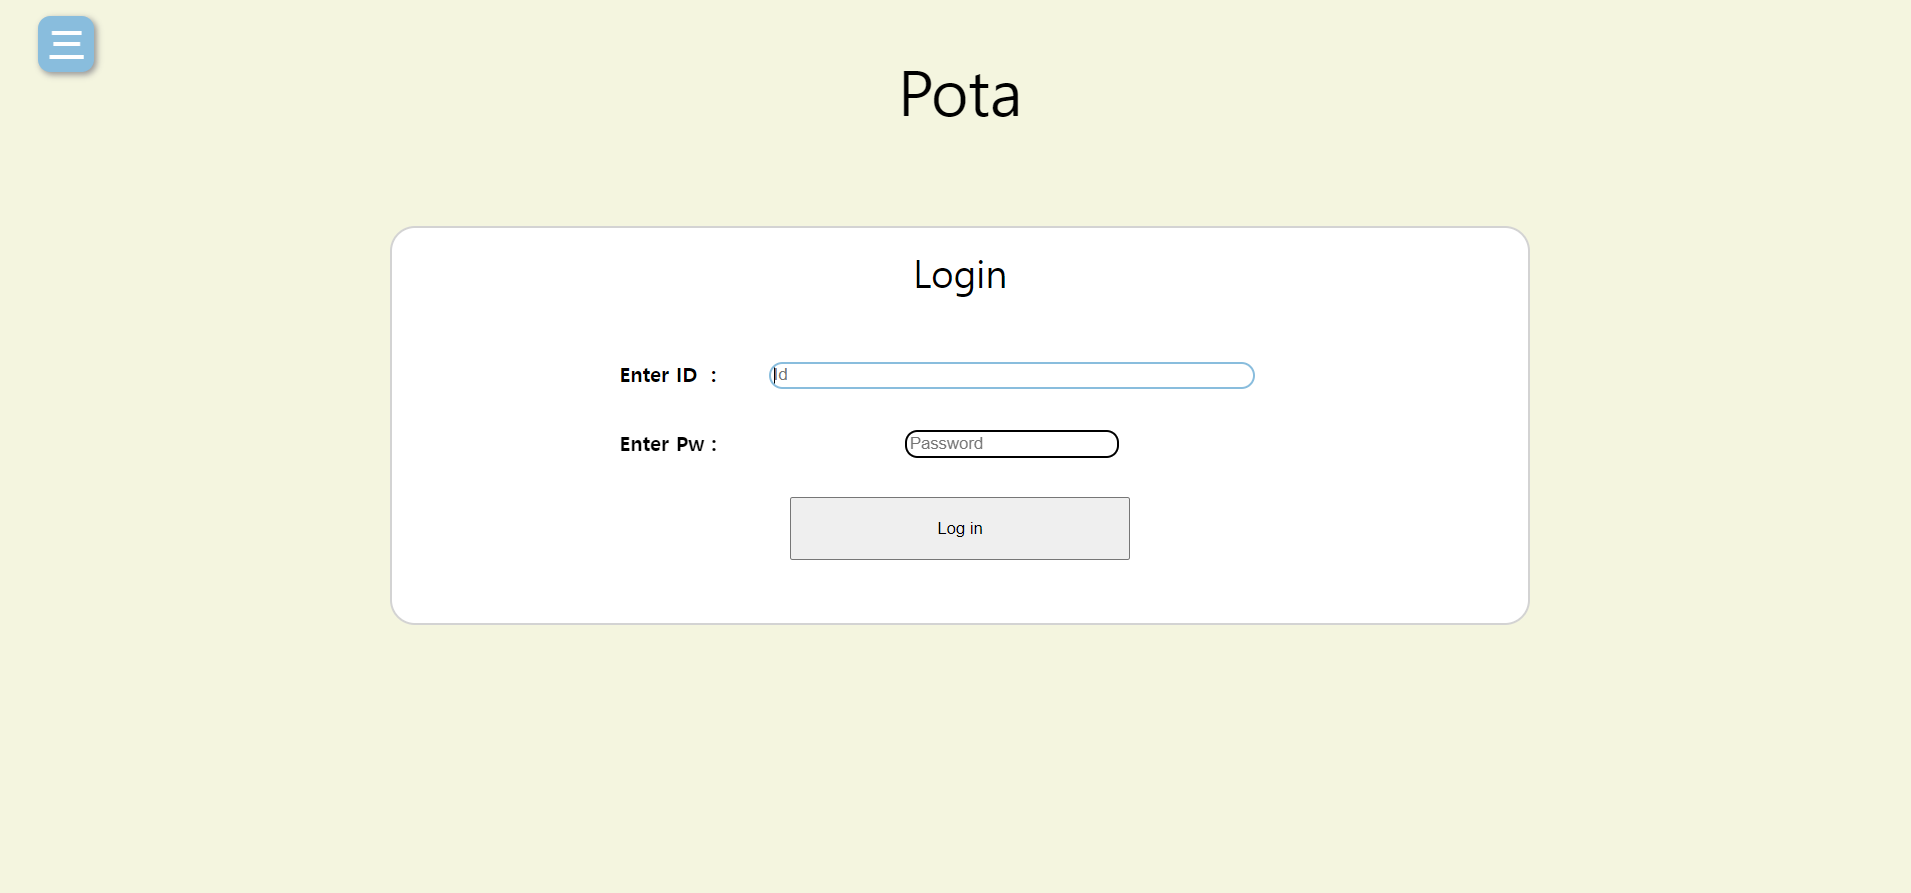
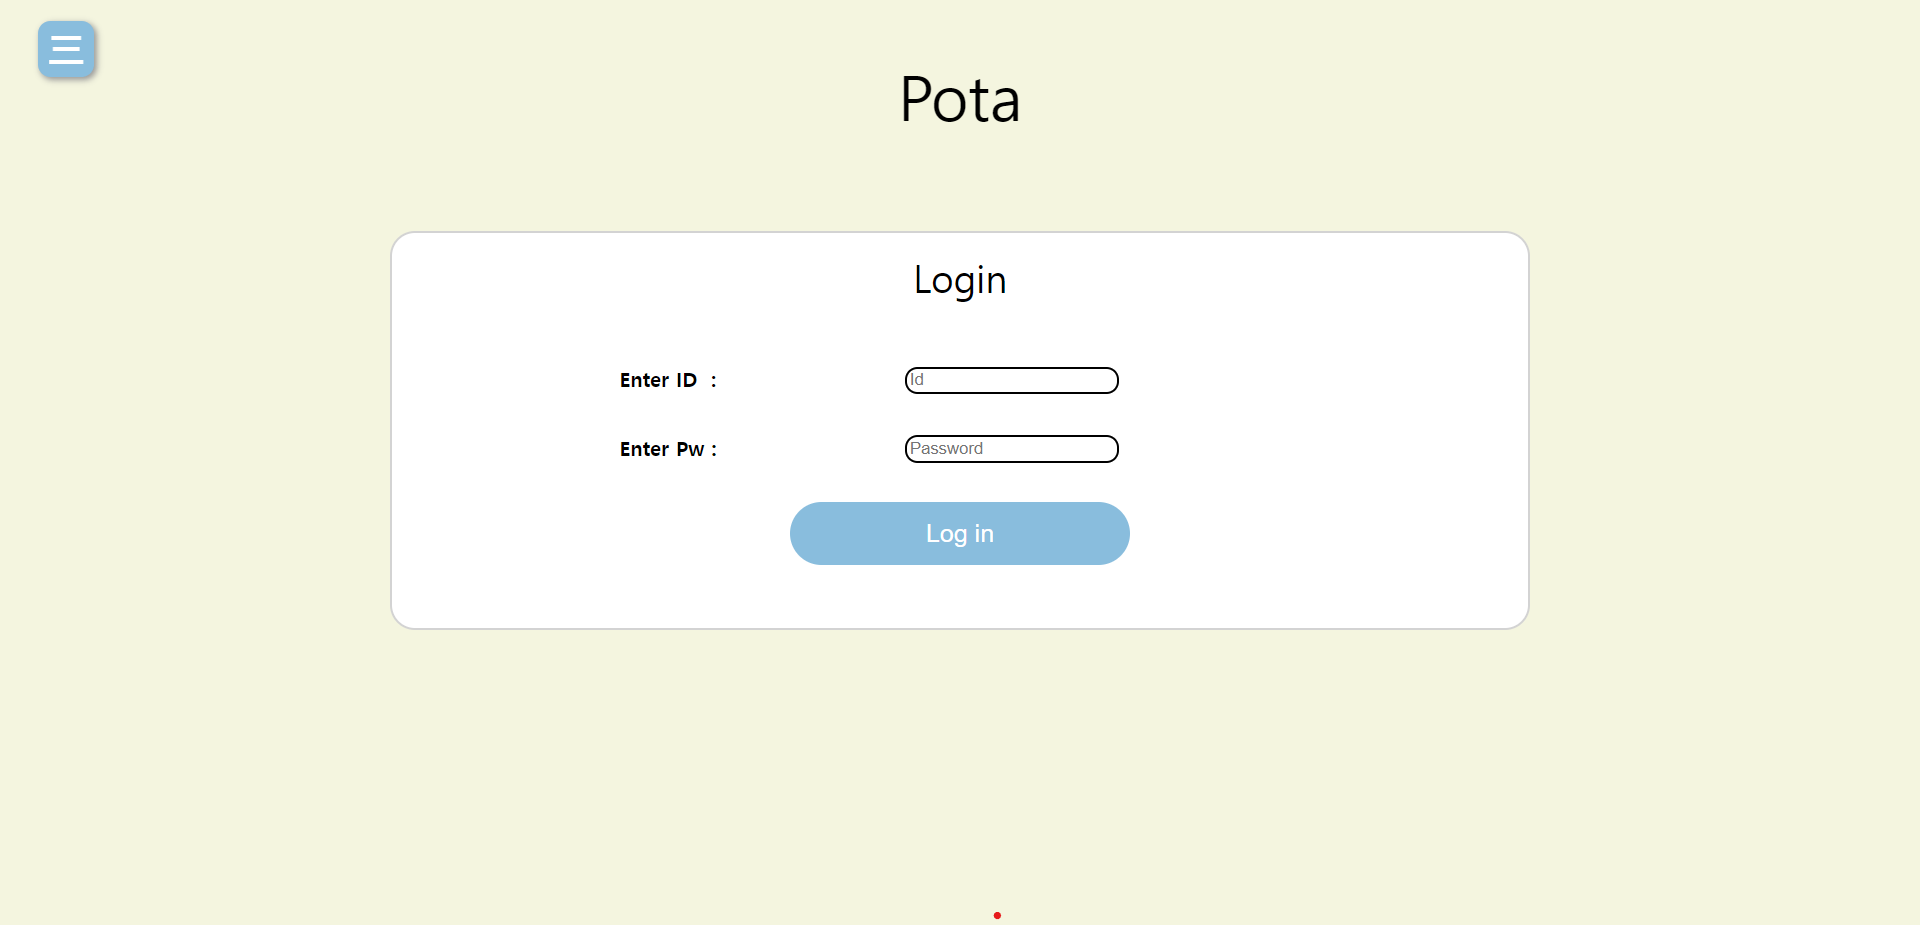
이미지 변경

diff --git a/etcs/login.css b/etcs/login.css
@@ -115,6 +115,10 @@ body{
     color: white;
 }
 
+#submitButton:hover{
+    background-color: rgb(99, 179, 211);
+}
+
 body::-webkit-scrollbar { 
     width: 12px;  /* 스크롤바의 너비 */
 }
